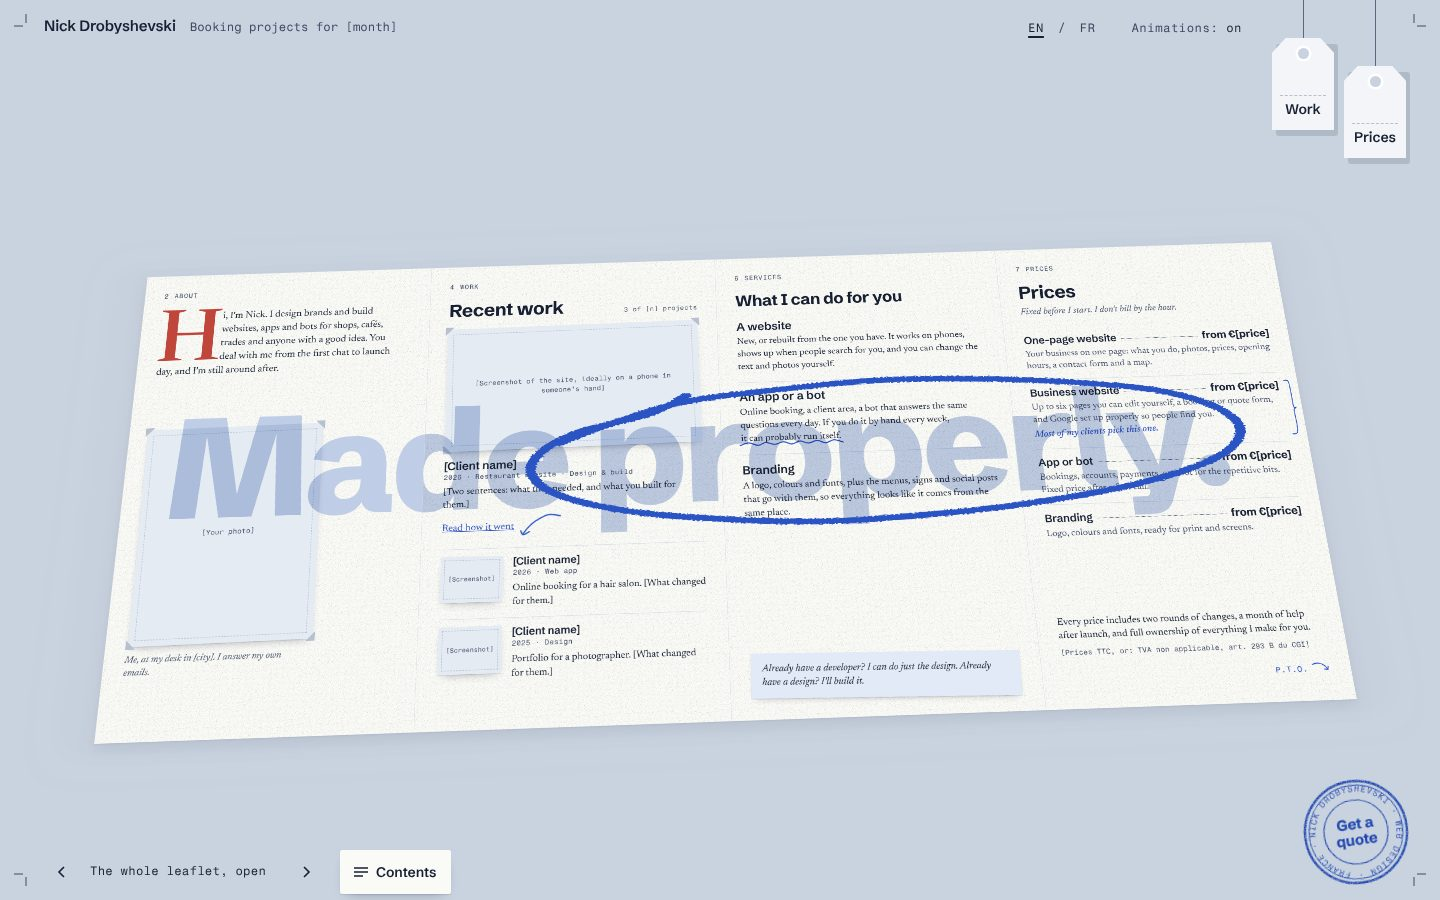
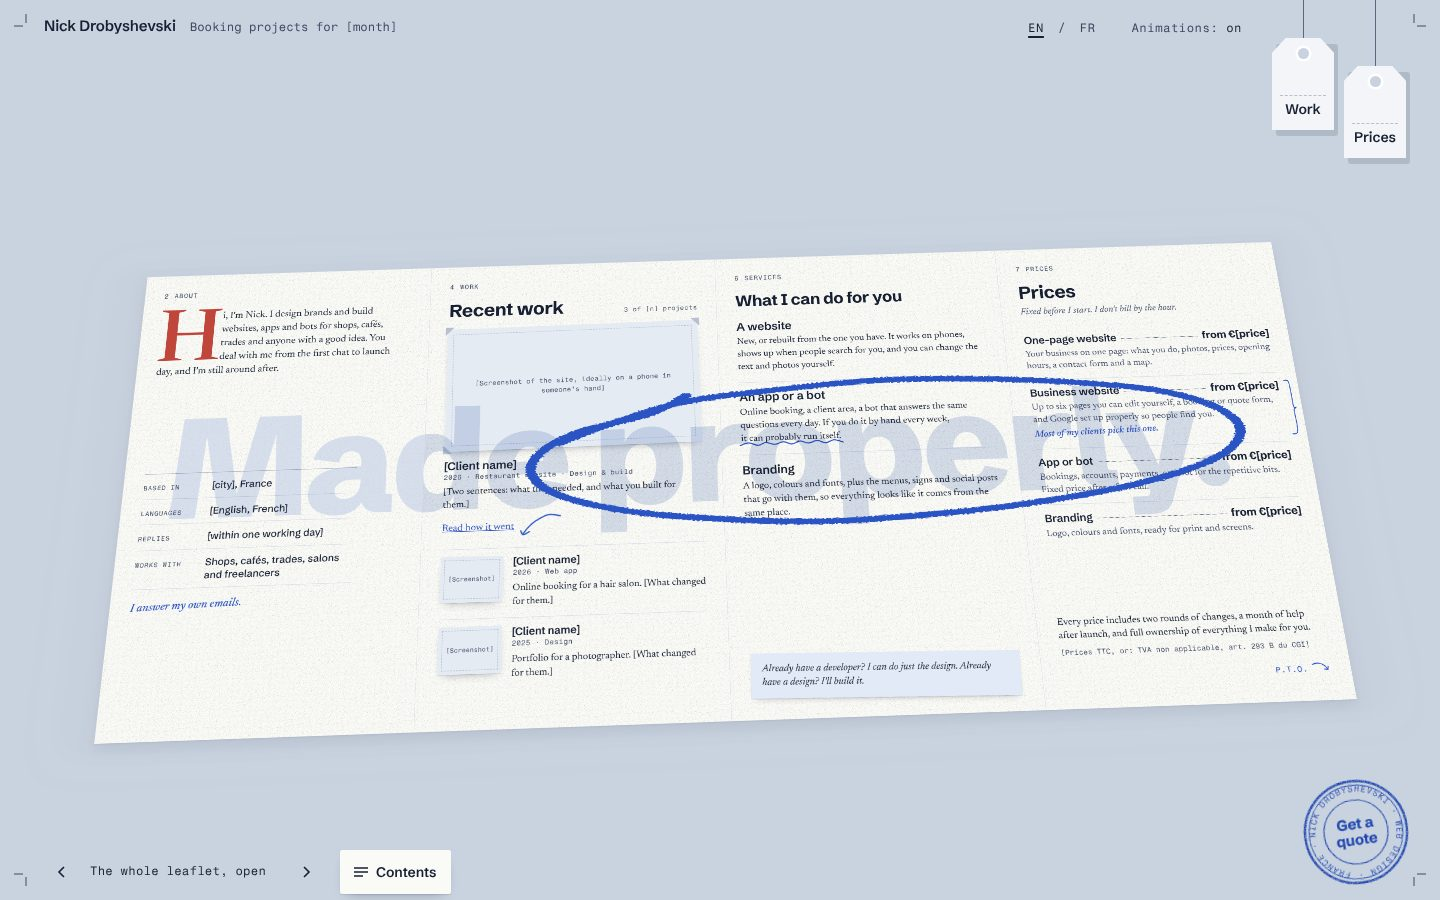
Leaflet: drop the photo and lighten the watermark
The About panel replaces the photo slot with a short ruled fact list
(city, languages, reply time as placeholders) and the pencil note.
The "Made properly." overprint drops to 0.25 while reading and 0.6
at the poster rest, and the phone panel words to half strength.

Claude-Session: https://claude.ai/code/session_01QZGtzXz9vmdN1aBxKVsAM3

Changed region(s): [[0.2812, 0.4356, 0.8438, 0.56], [0.0938, 0.4667, 0.25, 0.6844], [0.0938, 0.6844, 0.2188, 0.7467]]

diff --git a/design/mockups/round2/leaflet-made-properly.html b/design/mockups/round2/leaflet-made-properly.html
@@ -627,8 +627,8 @@ html.calm ::view-transition-new(root) { animation: fadein2 180ms linear both; }
   html.leaf-3d .pto { margin-top: 0; }
 }
 /* the overprint poster line sits back while you read, and inks up fully once the leaflet lies open as a poster */
-html.leaf-3d .op { opacity: .5; transition: opacity .6s ease; }
-html.leaf-3d.at-poster .op { opacity: 1; }
+html.leaf-3d .op { opacity: .25; transition: opacity .6s ease; }
+html.leaf-3d.at-poster .op { opacity: .6; }
 @media (prefers-reduced-motion: reduce) { html.leaf-3d .op { transition: none; } }
 
 /* in the 3D leaflet the open sheet reaches near the top, so the imprint sits on one line above it */
@@ -667,6 +667,16 @@ html.leaf-3d .op { --opfs: calc(var(--W) * .5); }
 /* lockup: "Made" is scaled up so both lines fill the panel width */
 .cover__h1 .l:first-child { font-size: calc(var(--h1a, 1.6) * 1em); line-height: .86; }
 html.leaf-3d .cover__h1 { margin-top: calc(var(--H) * .14); }
+/* about panel without a photo: a short ruled fact list and a pencil note */
+.facts { margin: 30px 0 0; border-top: 1px solid var(--crease-dark); max-width: 360px; }
+.facts > div { display: grid; grid-template-columns: 104px minmax(0, 1fr); gap: 12px; align-items: baseline; padding: 11px 0 10px; border-bottom: 1px solid var(--crease); }
+.facts dt { font: 400 11px/1.5 var(--mono); letter-spacing: .08em; text-transform: uppercase; color: var(--ink-soft); }
+.facts dd { margin: 0; font: 500 calc(17px * var(--ts)) / 1.3 var(--sans); color: var(--ink); }
+.about-note { margin-top: 20px; font: italic 500 calc(19px * var(--ts)) / 1.3 var(--serif) !important; color: var(--pencil); transform: rotate(-1.5deg); transform-origin: 0 50%; }
+html.leaf-3d .facts { margin-top: auto; }
+html.leaf-3d .about-note { margin-bottom: auto; }
+/* the big panel words on phones are a watermark too: keep them light */
+.op-word { opacity: .5; }
 </style>
 </head>
 <body>
@@ -771,10 +781,13 @@ html.leaf-3d .cover__h1 { margin-top: calc(var(--H) * .14); }
             <span class="op-word" aria-hidden="true">Made</span>
             <h2 class="kicker" id="about-h"><b aria-hidden="true">2</b><span data-fr="À propos">About</span></h2>
             <p class="intro">Hi, I'm Nick. I design brands and build websites, apps and bots for shops, cafés, trades and anyone with a good idea. You deal with me from the first chat to launch day, and I'm still around after.</p>
-            <figure class="photo">
-              <div class="print print--photo" role="img" aria-label="[Your photo]"><span class="slot">[Your photo]</span><i class="pc pc--tl"></i><i class="pc pc--tr"></i><i class="pc pc--bl"></i><i class="pc pc--br"></i></div>
-              <figcaption>Me, at my desk in [city]. I answer my own emails.</figcaption>
-            </figure>
+            <dl class="facts">
+              <div><dt data-fr="Basé à">Based in</dt><dd>[city], France</dd></div>
+              <div><dt data-fr="Langues">Languages</dt><dd>[English, French]</dd></div>
+              <div><dt data-fr="Réponse">Replies</dt><dd>[within one working day]</dd></div>
+              <div><dt data-fr="Pour qui">Works with</dt><dd>Shops, cafés, trades, salons and freelancers</dd></div>
+            </dl>
+            <p class="about-note">I answer my own emails.</p>
           </div>
           <div class="cast" aria-hidden="true"></div>
           <div class="shade" aria-hidden="true"></div>

diff --git a/design/mockups/round2/index.html b/design/mockups/round2/index.html
@@ -85,7 +85,8 @@
       <ul>
         <li>Under the slogan: "Branding, websites, apps and bots for small businesses."</li>
         <li>Services are now a website, an app or a bot, and branding. Prices add App or bot and Branding rows.</li>
-        <li>The big overprint now prints over everything like real ink, so photos and prints never hide it.</li>
+        <li>No photo: the About page has a short fact list and a pencil note instead.</li>
+        <li>The big "Made properly." watermark is lighter behind the text and in the poster moment.</li>
       </ul>
       <a class="open" href="leaflet-made-properly.html">Open the current version</a>
     </div>
